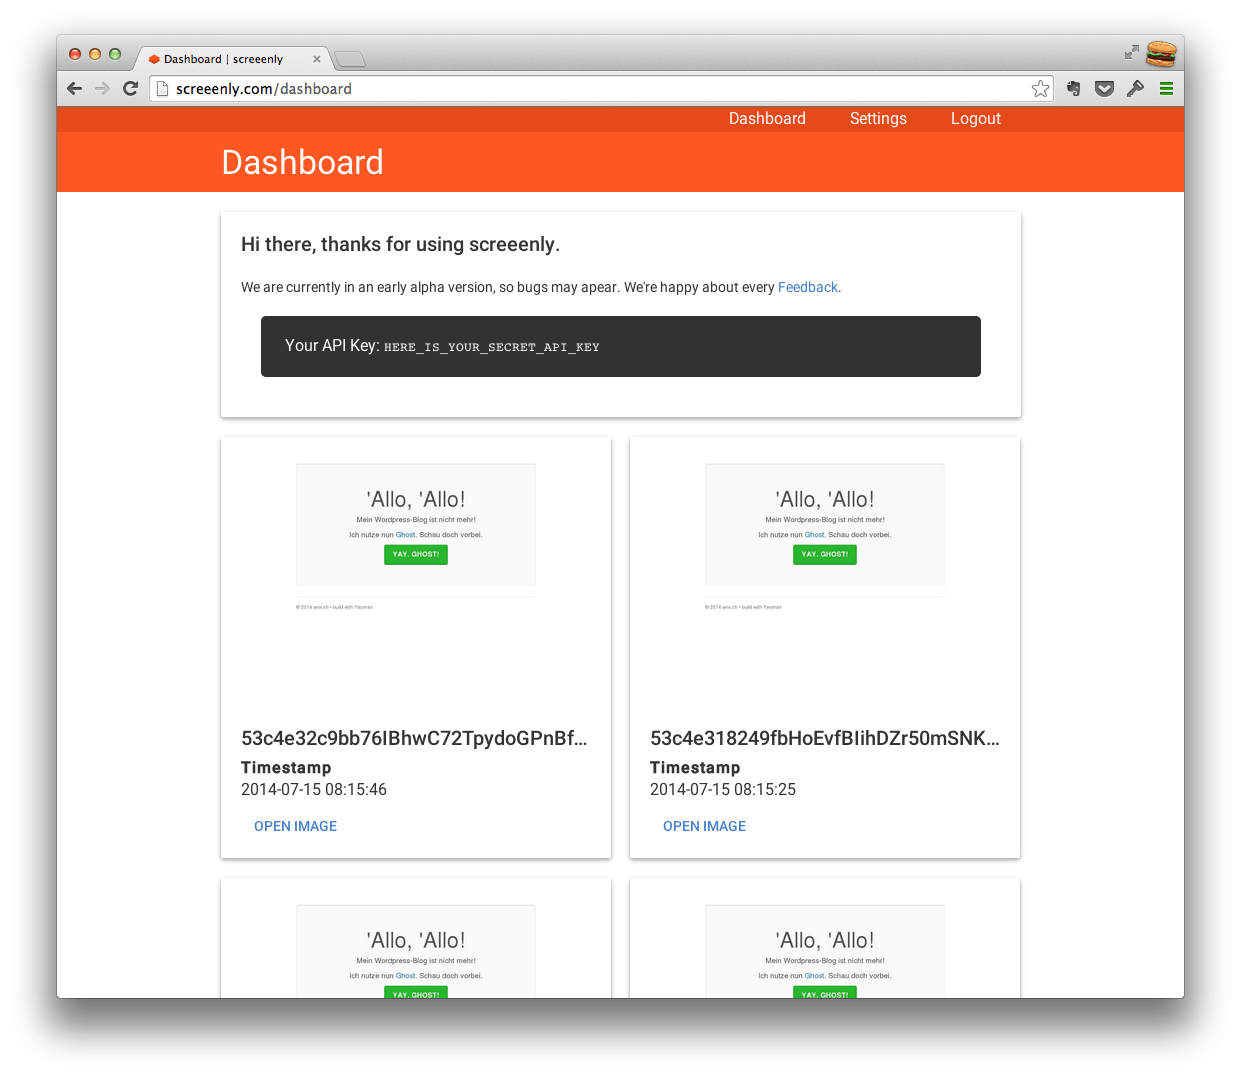
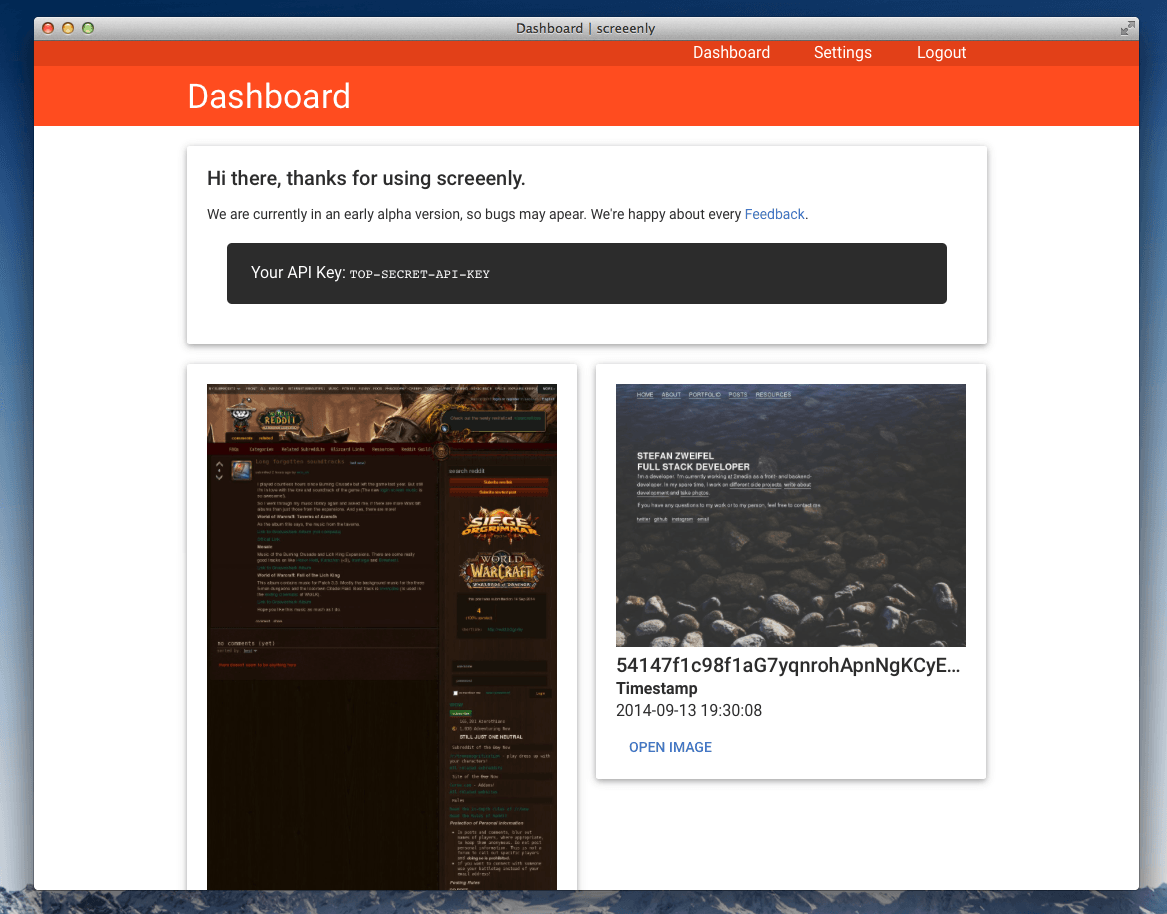
Fixed Screeenly Entry

diff --git a/_portfolio/screeenly.md b/_portfolio/screeenly.md
@@ -1,30 +1,31 @@
 ---
 layout: page
-title:  "screeenly.com"
+title:  screeenly
 date:   2014-07-15 16:16:08
 project-url: http://screeenly.com
 image: /img/portfolio/screeenly/hero-image.png
-description: A little sideproject of mine. Screeenly creates screenshots from websites and delivers them through a simple API.
+description: Sideproject I'm currently working on. Screeenly creates screenshots from websites and delivers them through a simple API.
 ---
 
-> TL;DR: [Screeenly](http://screeenly.com) is an API to create website screenshots. You can checkout the source code on [Github](https://github.com/stefanzweifel/screeenly).
+> TL;DR: [Screeenly](http://screeenly.com) is an API to create website screenshots. You can checkout the source code on [Github](https://github.com/stefanzweifel/screeenly).<br>
+> I'm currently redesigning the application. Screenshots you see here, will change in the future.
 
-Since january I'm a big fan of the PHP framework [Laravel](http://laracel.com) and in my freetime I'm often playing around with it. Recently I had the idead to create an API to create screenshots from websites. You could use this API in other applications, where you have to display the current look of a given website in a nice dashboard.
+Since january I'm a big fan of the PHP framework [Laravel](http://laracel.com) and in my freetime I'm often playing around with it. Recently I had the idead to create an API to create screenshots from websites. You could use the API in other applications, where you have to display the current look of a given website in a nice dashboard.
 
-So I sat down on a rainy weekend and created [screeenly.com](http://screeenly.com).
+So I sat down created the first version of [screeenly.com](http://screeenly.com).
 
 ![Landingpage](/img/portfolio/screeenly/landingpage.png)
 
-The whole project is really simple:
+The whole thing is simple:
 
 - You sign up with your Github Account
-- Grab API Key
+- Grab the API Key
 - Create API-Requests
-- Handle Responses
+- Handle responses in your application
+- Profit
 
-After you created some screenshots, you see them in your Dashboard for the next seven days.
+After you created some screenshots, you see them in your dashboard for the next seven days.
 
 ![Dashboard](/img/portfolio/screeenly/dashboard.png)
 
 Furthermore, I created screeenly during the Google I/O 2014. I was really impressed by the new Material Design Guidelines and so I tried to implement them.
-I'm not quite happy yet, but I works for me.
